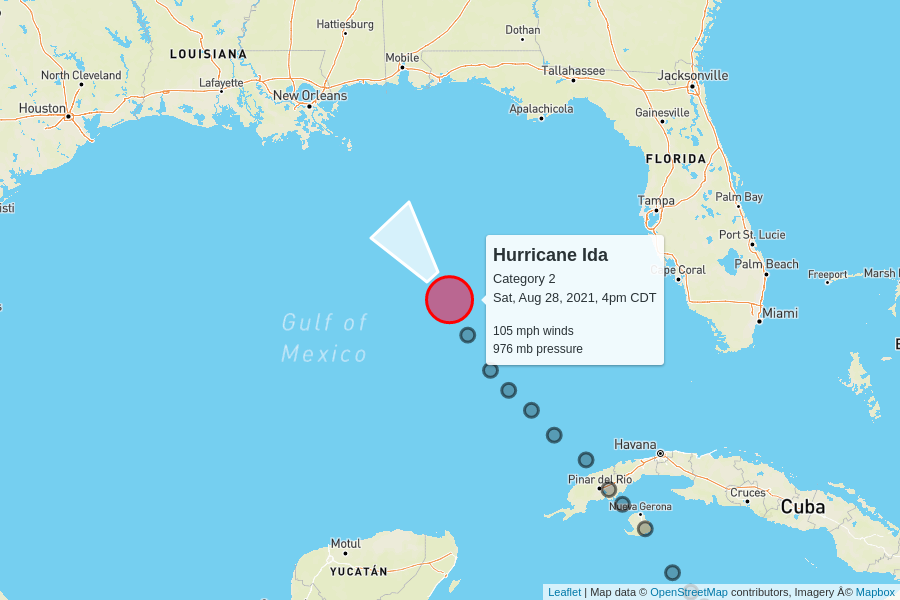
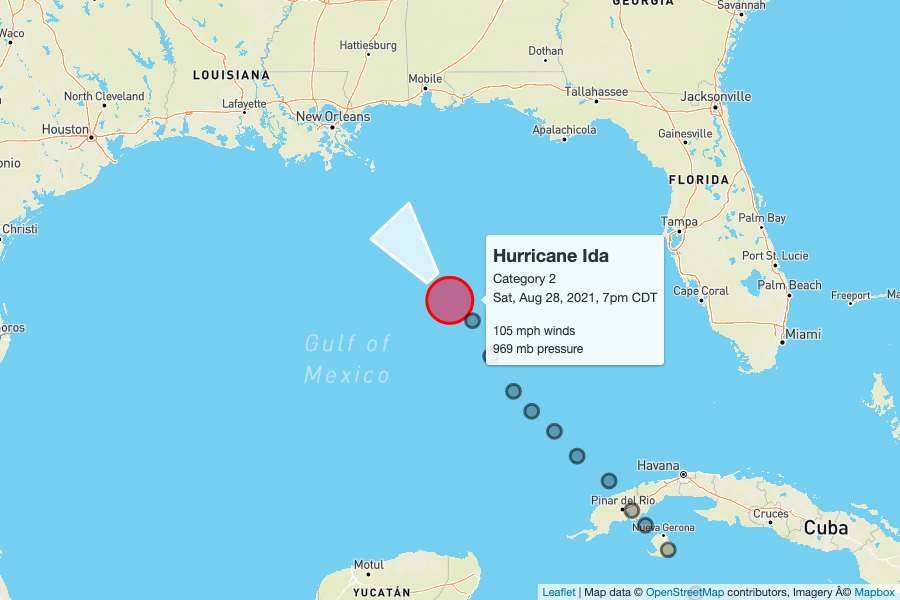
fix git bug; run update

diff --git a/docs/index.html b/docs/index.html
@@ -95,7 +95,7 @@
         <td colspan="6" class="storm category-2">
           <h2>
             Hurricane Ida - Category 2
-            <p class="updated">last updated   Saturday, August 28, 2021, 4:00 pm CDT</p>
+            <p class="updated">last updated   Saturday, August 28, 2021, 7:00 pm CDT</p>
           </h2>
         </td>
       </tr>
@@ -110,7 +110,7 @@
       <tr>
         <td class="spacer"></td>
         <td>105 mph</td>
-        <td>976 mb</td>
+        <td>969 mb</td>
         <td>
           16 mph to the northwest
           <br/>
